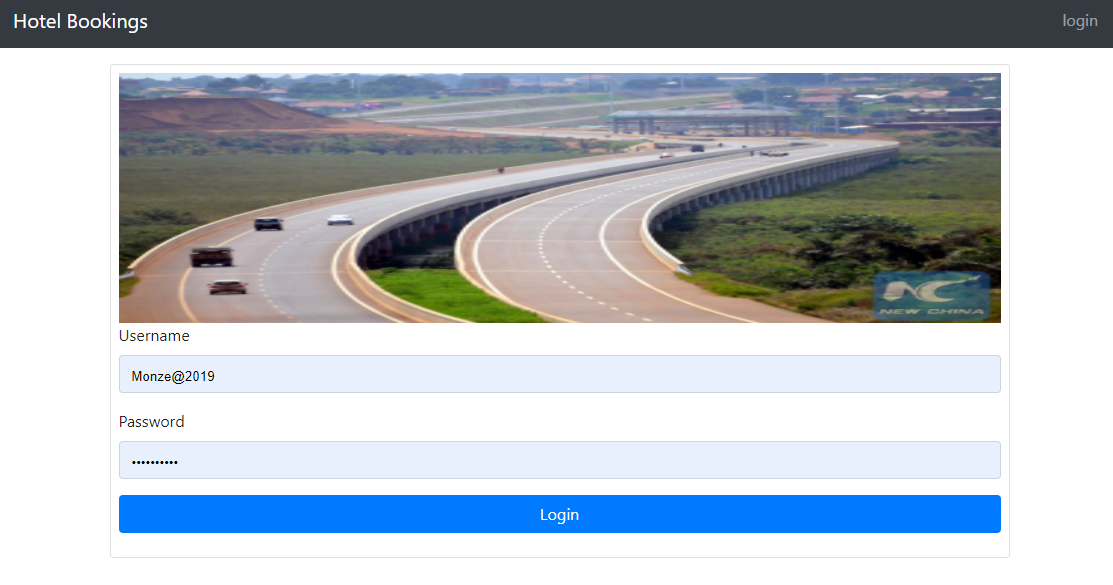
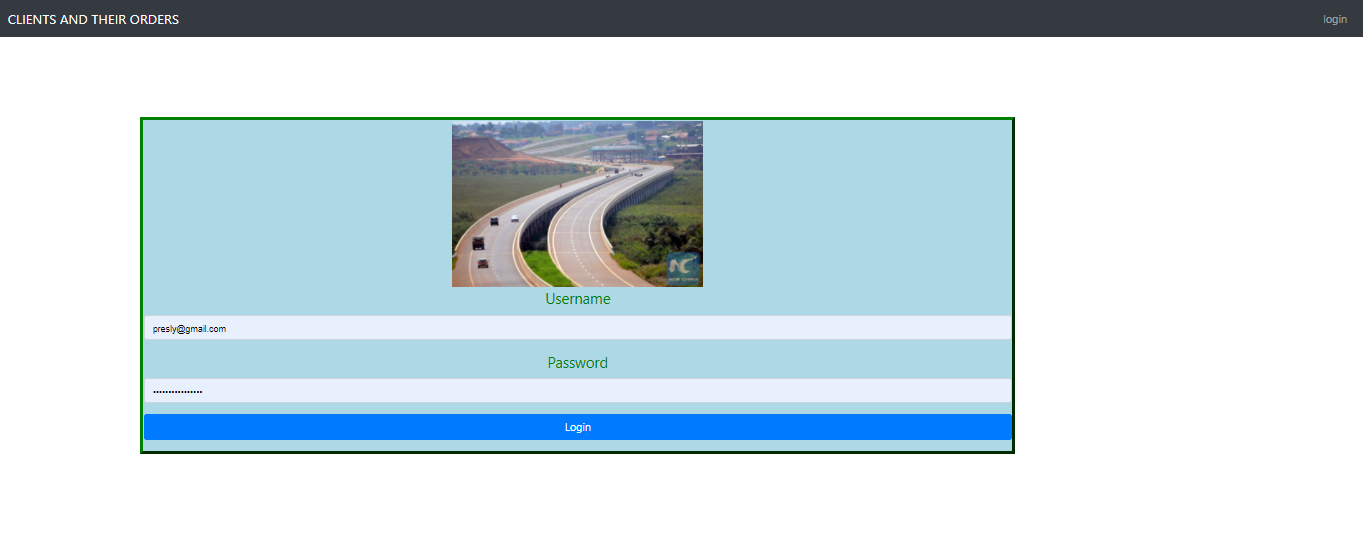
backgroundPicture added

diff --git a/FRONTEND/src/app/app.component.html b/FRONTEND/src/app/app.component.html
@@ -4,13 +4,13 @@
 
   <ul class="navbar-nav ml-auto" *ngIf="!isLoggedIn">
     <li class="nav-item">
-      <a class="nav-link" href="/login" routerLink="login">login</a>
+      <a class="nav-link" href="/login" routerLink="login">Login</a>
     </li>
   </ul>
 
   <ul class="navbar-nav ml-auto" *ngIf="isLoggedIn">
     <li class="nav-item">
-      <a class="nav-link" href (click)="logout()">logout</a>
+      <a class="nav-link" href (click)="logout()">Logout</a>
     </li>
   </ul>
 </nav>

diff --git a/FRONTEND/src/app/login/login.component.html b/FRONTEND/src/app/login/login.component.html
@@ -1,5 +1,7 @@
 <div class="col-md-12">
-    <div class="card card-container p-2">
+
+  <div class="LevelOne">
+    <!-- <div class="card card-container p-2"> -->
       <img
         id="profile-img"
         src="assets/stone/page1.jpg" height="250"
@@ -11,6 +13,7 @@
         (ngSubmit)="f.form.valid && onSubmit()"
         #f="ngForm"
         novalidate
+    
       >
         <div class="form-group">
           <label for="username">Username</label>

diff --git a/FRONTEND/src/app/login/login.component.css b/FRONTEND/src/app/login/login.component.css
@@ -1,0 +1,16 @@
+.LevelOne {
+    border: 5px outset green;
+    background-color: lightblue;
+    text-align: center;
+    background-size: 100% auto;
+  
+    margin-top: 120px;
+    margin-bottom: 20px;
+    margin-right: 200px;
+    margin-left: 200px;
+  
+    width: 65%;
+    height: 50%;
+    font-size: 22px;
+    color: green;
+  }

diff --git a/README.md b/README.md
@@ -1,1 +1,37 @@
-"# Angular-Frontend-for-store-administrator" 
+# CLIENTS AND ORDERS MANAGEMENT SYSTEM
+
+## Executing commands
+
+```
+cd Backend \
+npm start
+
+cd FrontEnd \
+npm start
+
+npm install bootstrap --save
+npm install jquery --save
+npm install popper.js --save
+```
+
+
+## Links for the frontend endpoints and backend endpoints
+
+- Open [http://localhost:4800/](http://localhost:4800/) in browser to see the frontend of the application.
+- Open [http://localhost:8088/](http://localhost:8088/) in browser to see the backend of the application.
+
+
+## User-Interface
+
+Below are some screens shots from the application console
+
+![Muntu#1](https://github.com/LINOSNCHENA/Angular-Frontend-for-store-administrator/blob/main/UXViews/page1.png)
+![Muntu#2](https://github.com/LINOSNCHENA/Angular-Frontend-for-store-administrator/blob/main/UXViews/page2.png)
+![Muntu#3](https://github.com/LINOSNCHENA/Angular-Frontend-for-store-administrator/blob/main/UXViews/page3.png)
+![Muntu#4](https://github.com/LINOSNCHENA/Angular-Frontend-for-store-administrator/blob/main/UXViews/page4.png)
+![Muntu#5](https://github.com/LINOSNCHENA/Angular-Frontend-for-store-administrator/blob/main/UXViews/page5.png)
+
+## Versioning : LECTURER #4
+
+# END
+
